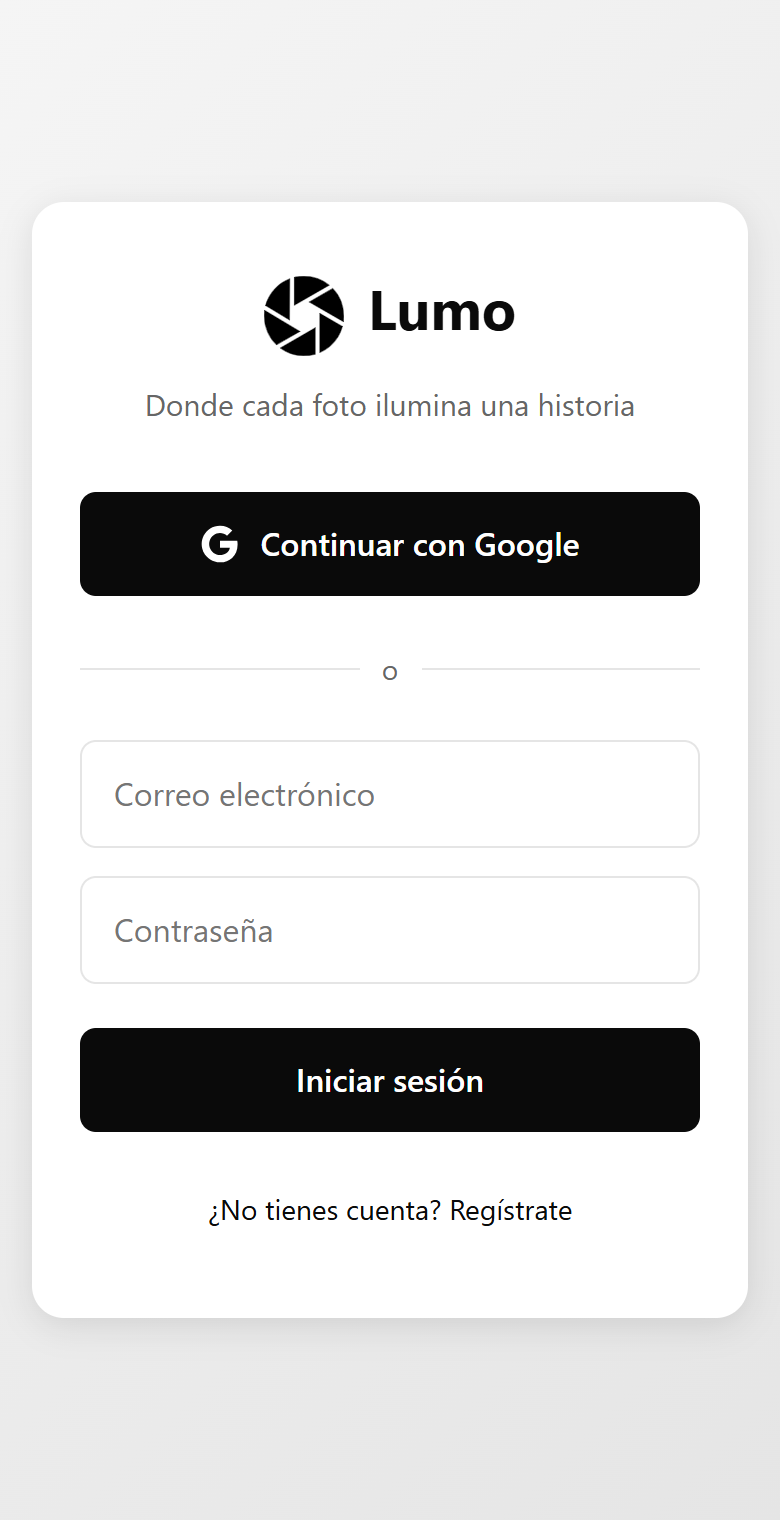
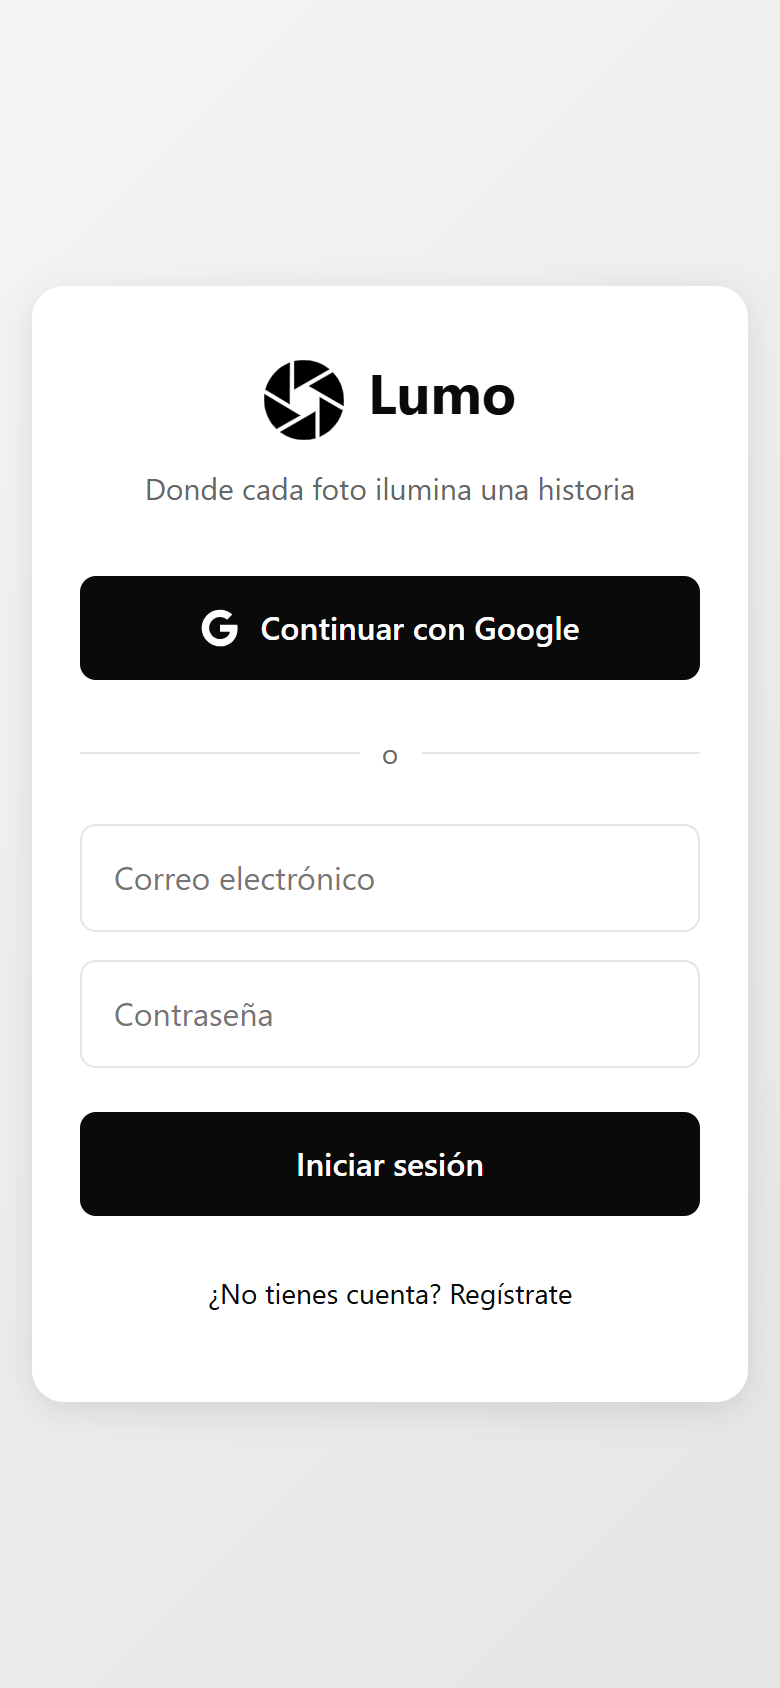
Add screenshots of the feed, sign-up and upload flow

diff --git a/README.md b/README.md
@@ -9,7 +9,16 @@ A shared photo album for an event. Everyone signs in, posts photos from their ph
 ![License](https://img.shields.io/badge/license-MIT-blue)
 [![CI](https://github.com/andresazcona/Lumo/actions/workflows/ci.yml/badge.svg)](https://github.com/andresazcona/Lumo/actions/workflows/ci.yml)
 
-<p align="center"><img src="docs/login-mobile.png" alt="Lumo sign-in screen" width="300"></p>
+![The feed on desktop](docs/feed-desktop.png)
+
+<p align="center">
+  <img src="docs/login-mobile.png" alt="Sign-in" width="23%">
+  <img src="docs/signup-mobile.png" alt="Create account" width="23%">
+  <img src="docs/feed-mobile.png" alt="Feed on a phone" width="23%">
+  <img src="docs/upload-mobile.png" alt="Upload preview with the write-once warning" width="23%">
+</p>
+
+> Screenshots use generated placeholder images, not real photos.
 
 > The interface is in Spanish.
 
